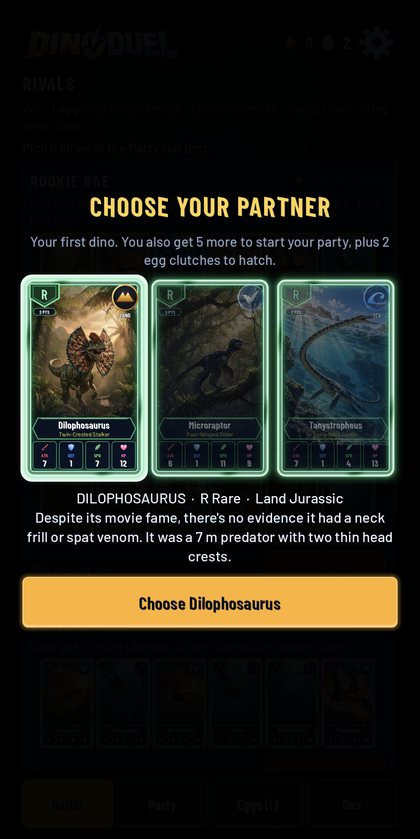
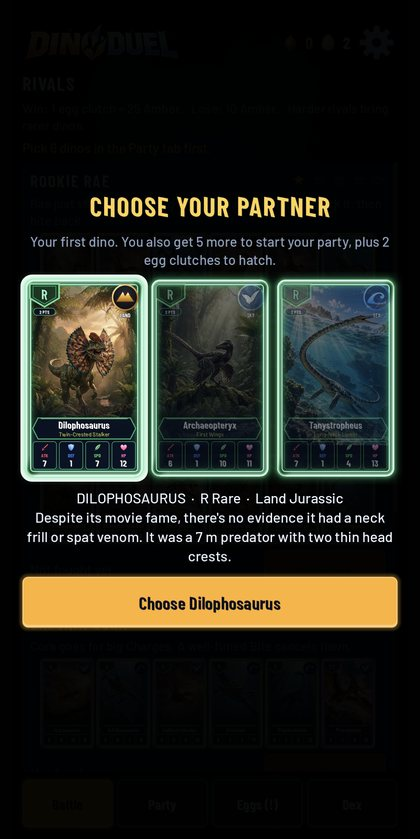
Archaeopteryx is the Sky starter partner; red Leave buttons
- Partner choice is now Dilophosaurus, Archaeopteryx or Tanystropheus
  (Archaeopteryx replaces Microraptor). Partner screenshot retaken.
- Leave and Leave battle buttons are red (new UiKit.BUTTON_RED).

diff --git a/docs/GAME_DESIGN.md b/docs/GAME_DESIGN.md
@@ -71,7 +71,7 @@ Difficulty knobs per rival: `temperature` (randomness), `*_bias` (a readable hab
 - Odds per egg: N 50%, R 30%, SR 13%, SSR 5%, UR 2%. Shiny 1 in 40 (cosmetic). If 9 clutches in a row had no Epic+, the 10th is guaranteed one (SSR 80% / UR 20%). Odds are shown on the Eggs tab.
 - **Duplicates auto-melt into Amber** (N 7, R 25, SR 60, SSR 180, UR 480). A Shiny duplicate upgrades a non-Shiny copy instead.
 - **Crafting** from the Dex: N 40, R 100, SR 400, SSR 1000, UR 2000 Amber.
-- New players start by **choosing a partner** (decided 2026-10-08): Dilophosaurus (Land), Microraptor (Sky) or Tanystropheus (Sea), all Rare. They also get Coelophysis, Eudimorphodon, Stegosaurus, Rhamphorhynchus and Ichthyosaurus (Stegosaurus + Rhamphorhynchus + Ichthyosaurus is a ready-made Jurassic party with both bonuses; Tanystropheus completes a Triassic one) and **2 clutches**.
+- New players start by **choosing a partner** (decided 2026-10-08): Dilophosaurus (Land), Archaeopteryx (Sky; replaced Microraptor at Jo's request, same day) or Tanystropheus (Sea), all Rare. They also get Coelophysis, Eudimorphodon, Stegosaurus, Rhamphorhynchus and Ichthyosaurus (Stegosaurus + Rhamphorhynchus + Ichthyosaurus is a ready-made Jurassic party with both bonuses; Tanystropheus completes a Triassic one) and **2 clutches**.
 - **Party:** you bring 6; before each battle you see the rival's 6 and pick 3.
 - **Dino Dex:** grouped by era; owned dinos show in full, dinos you've faced show faded, the rest are "???".
 - Results are rolled and saved before the hatch animation plays, so closing the app can't reroll a clutch.
